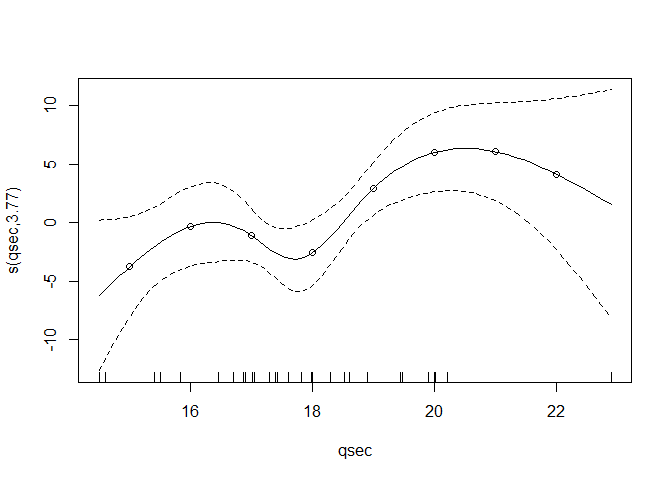
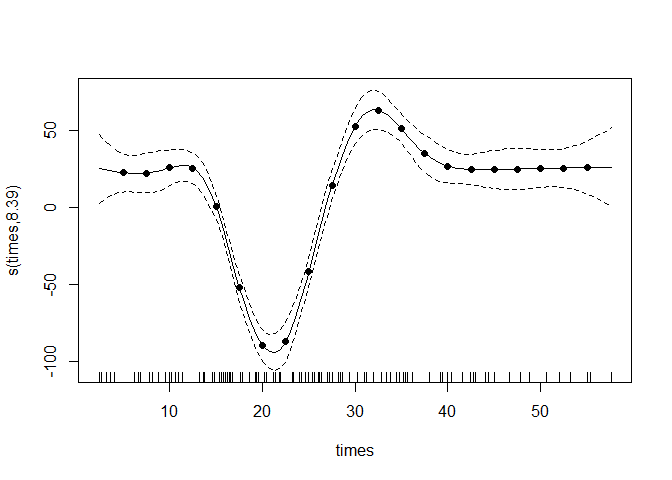
use mcycle example in readme

diff --git a/README.md b/README.md
@@ -24,9 +24,11 @@ The popular `mgcv` package allows estimating smooth effects for
 continuous predictor variables in a generalized additive mixed model
 framework, providing a variety of smoothers with penalized likelihood
 maximization (Wood, 2017). Yet, there is currently no easy-to-use
-functionality in the R ecosystem to derive the closed formula for the
-estimated smooth conditional mean function. This limits transparency and
-reproducibility in many applications.
+functionality in the `R` ecosystem to derive the closed formula for the
+estimated smooth conditional mean function in terms of the original
+predictor variable. Instead, plotting and predictions require the
+original model object. This limits transparency and reproducibility in
+many applications.
 
 The `gam2formula` package fills this gap for many common smoothers from
 `mgcv`, including B-spline, P-spline and cubic regression spline
@@ -56,7 +58,8 @@ Fit a spline in a generalized additive model using `mgcv`:
 
 ``` r
 library(mgcv)
-m <- gam(mpg ~ s(qsec, bs = "cr", k = 5), data = mtcars)
+library(MASS)
+m <- gam(accel ~ s(times, bs = "cr"), data = mcycle)
 plot(m)
 ```
 
@@ -68,17 +71,22 @@ Display the closed formula of a spline as coefficient table using
 ``` r
 library(gam2formula)
 mod_formulas <- gam2formula(m)
-print(mod_formulas, term = "qsec")
-#> # A tibble: 7 × 4
-#>   term  range bfun                          coef
-#>   <chr> <chr> <chr>                        <dbl>
-#> 1 qsec  1     1                            10.2 
-#> 2 qsec  1     (qsec-14.5)/8.4               8.42
-#> 3 qsec  1     abs((qsec-14.5)/8.4)^3     -140.  
-#> 4 qsec  1     abs((qsec-16.8775)/8.4)^3  1382.  
-#> 5 qsec  1     abs((qsec-17.71)/8.4)^3   -2057.  
-#> 6 qsec  1     abs((qsec-18.8275)/8.4)^3   867.  
-#> 7 qsec  1     abs((qsec-22.9)/8.4)^3      -51.5
+print(mod_formulas, term = "times")
+#> # A tibble: 12 × 4
+#>    term  range bfun                                      coef
+#>    <chr> <chr> <chr>                                    <dbl>
+#>  1 times 1     1                                        22.2 
+#>  2 times 1     (times-2.4)/55.2                        -27.0 
+#>  3 times 1     abs((times-2.4)/55.2)^3                1779.  
+#>  4 times 1     abs((times-9.06666666666667)/55.2)^3 -21164.  
+#>  5 times 1     abs((times-14.7333333333333)/55.2)^3  71061.  
+#>  6 times 1     abs((times-17.8)/55.2)^3             -38694.  
+#>  7 times 1     abs((times-22.4)/55.2)^3             -51015.  
+#>  8 times 1     abs((times-26.3333333333333)/55.2)^3  28623.  
+#>  9 times 1     abs((times-31.2)/55.2)^3              26924.  
+#> 10 times 1     abs((times-36.8)/55.2)^3             -20581.  
+#> 11 times 1     abs((times-44.2666666666667)/55.2)^3   3065.  
+#> 12 times 1     abs((times-57.6)/55.2)^3                  1.50
 ```
 
 And use the formula for point predictions, independent of the original
@@ -86,7 +94,8 @@ model object:
 
 ``` r
 plot(m)
-points(15:22, predict(mod_formulas, term = "qsec", newdata = data.frame(qsec = 15:22)))
+x <- seq(5, 55, 2.5)
+points(x, predict(mod_formulas, term = "times", newdata = data.frame(times = x)), pch = 16)
 ```
 
 <img src="man/figures/README-example2-1.png" alt="" width="75%" />
